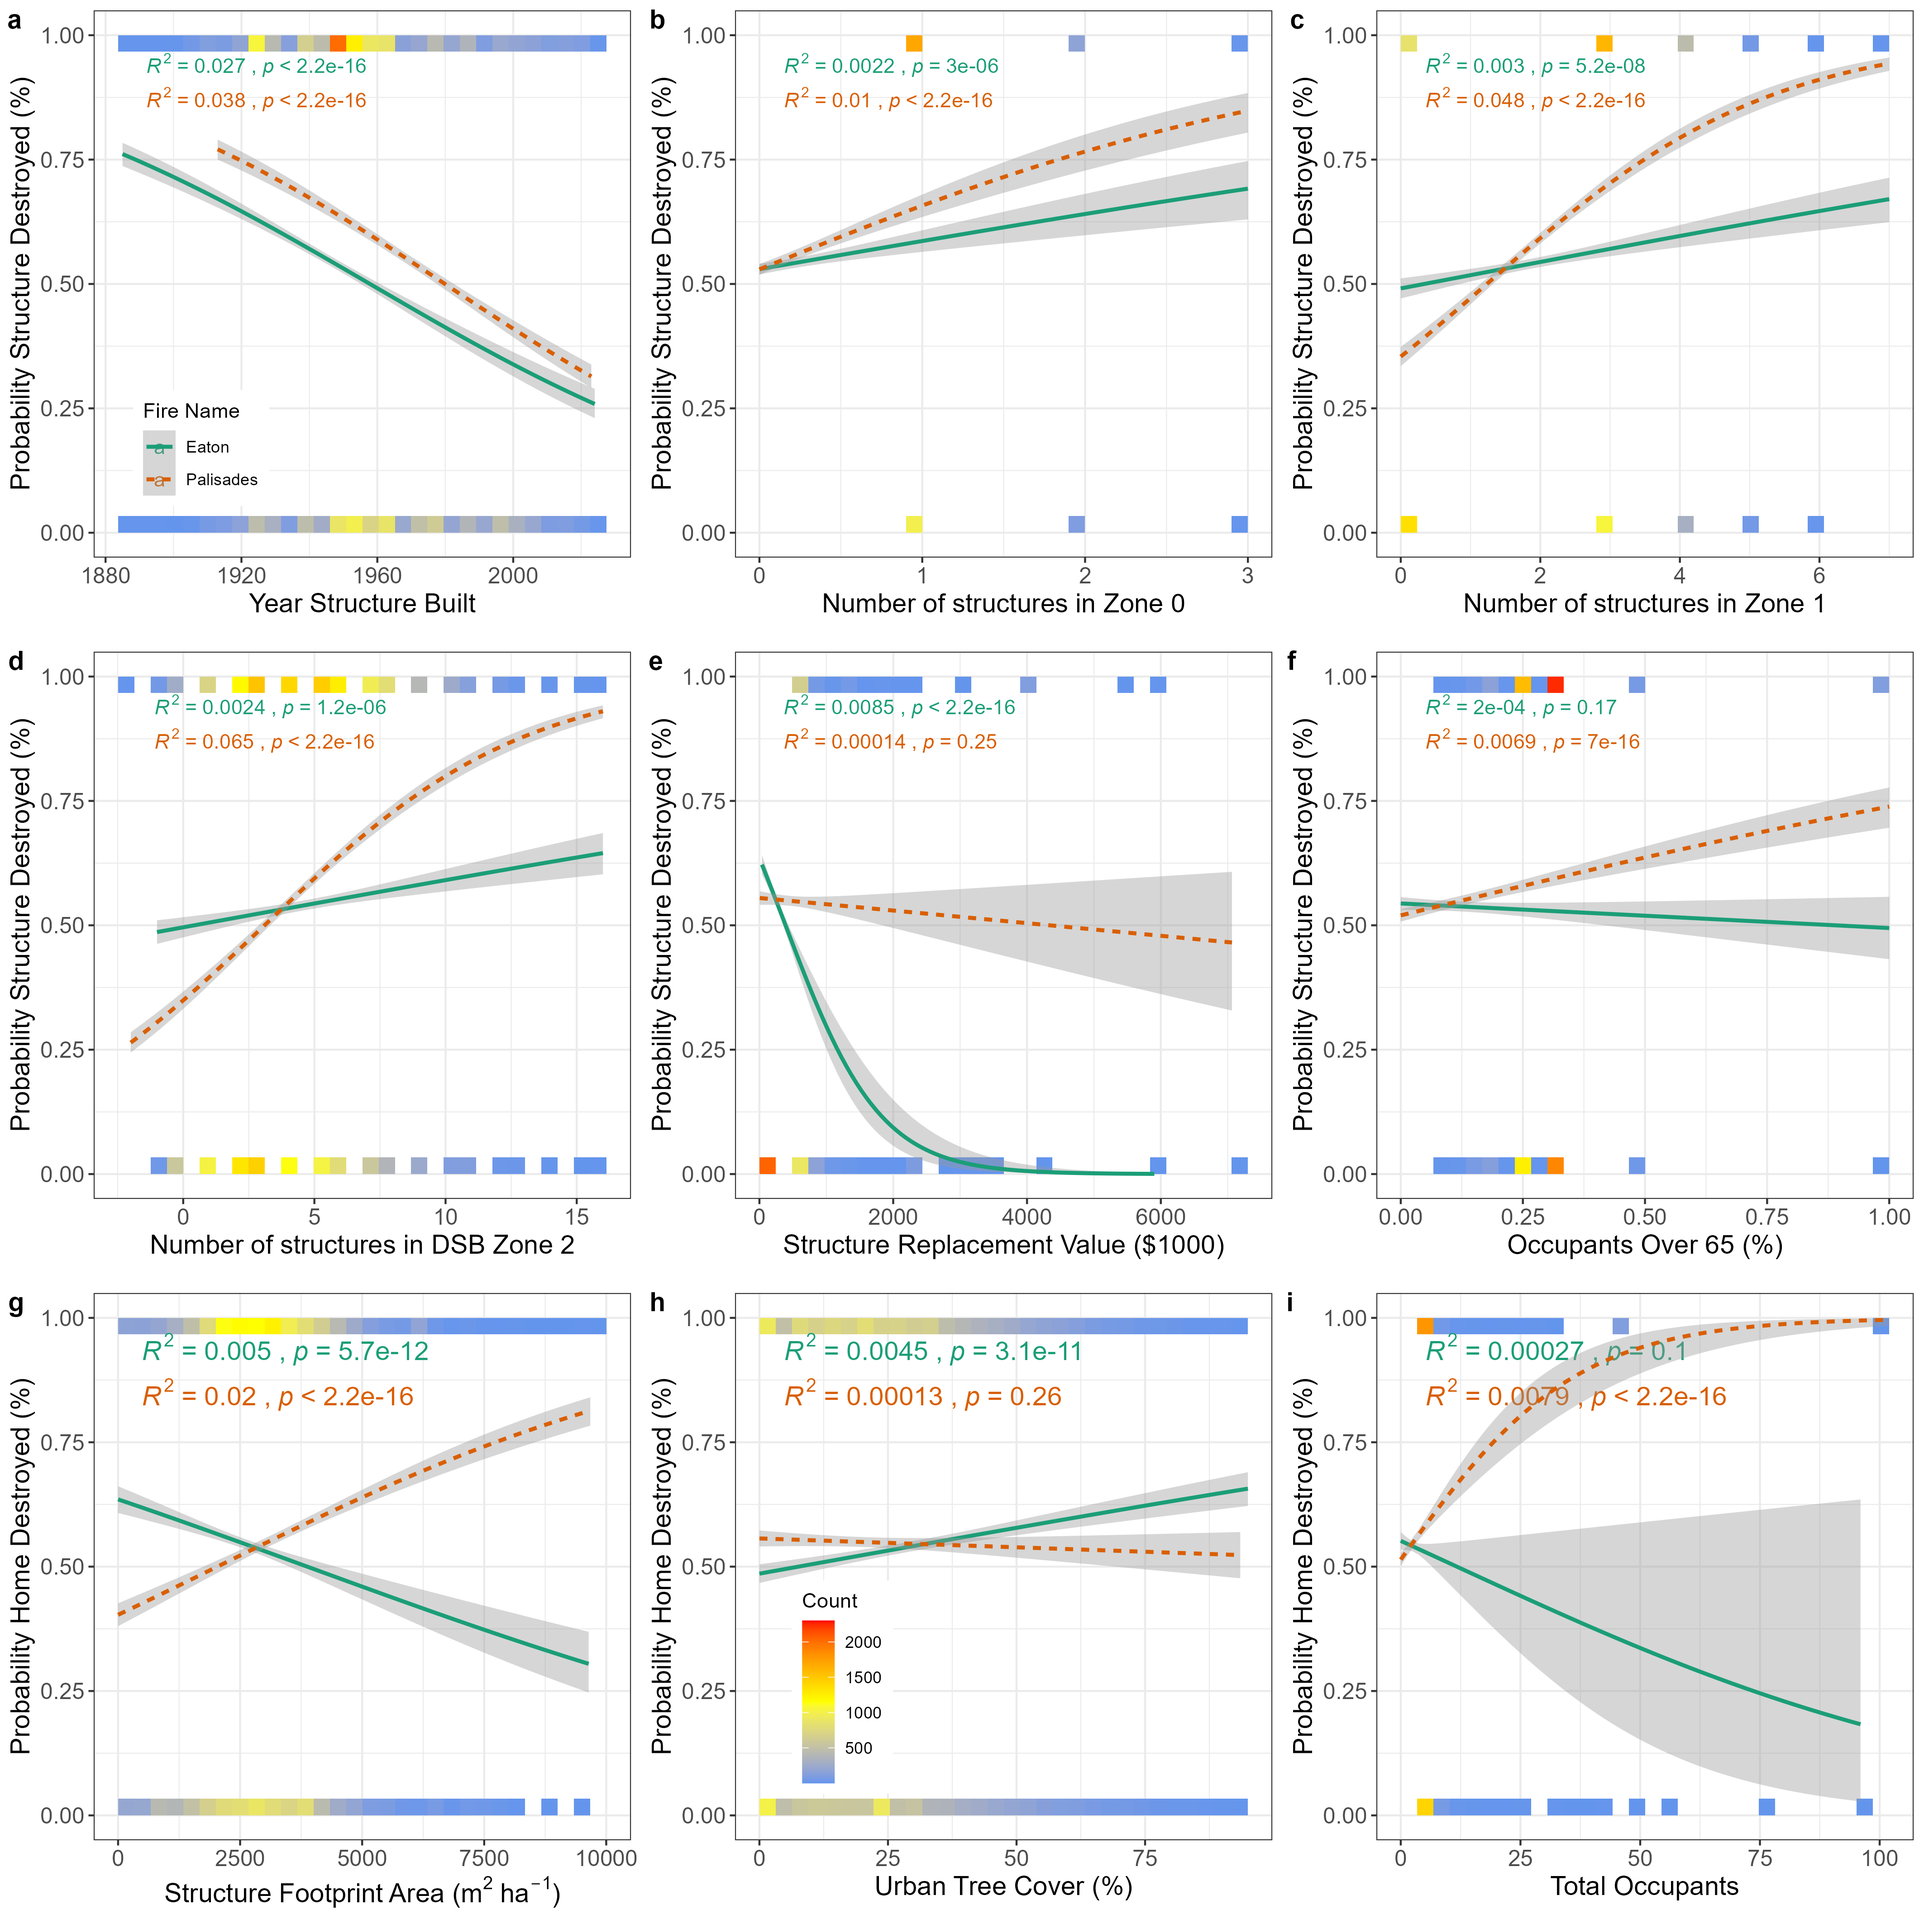
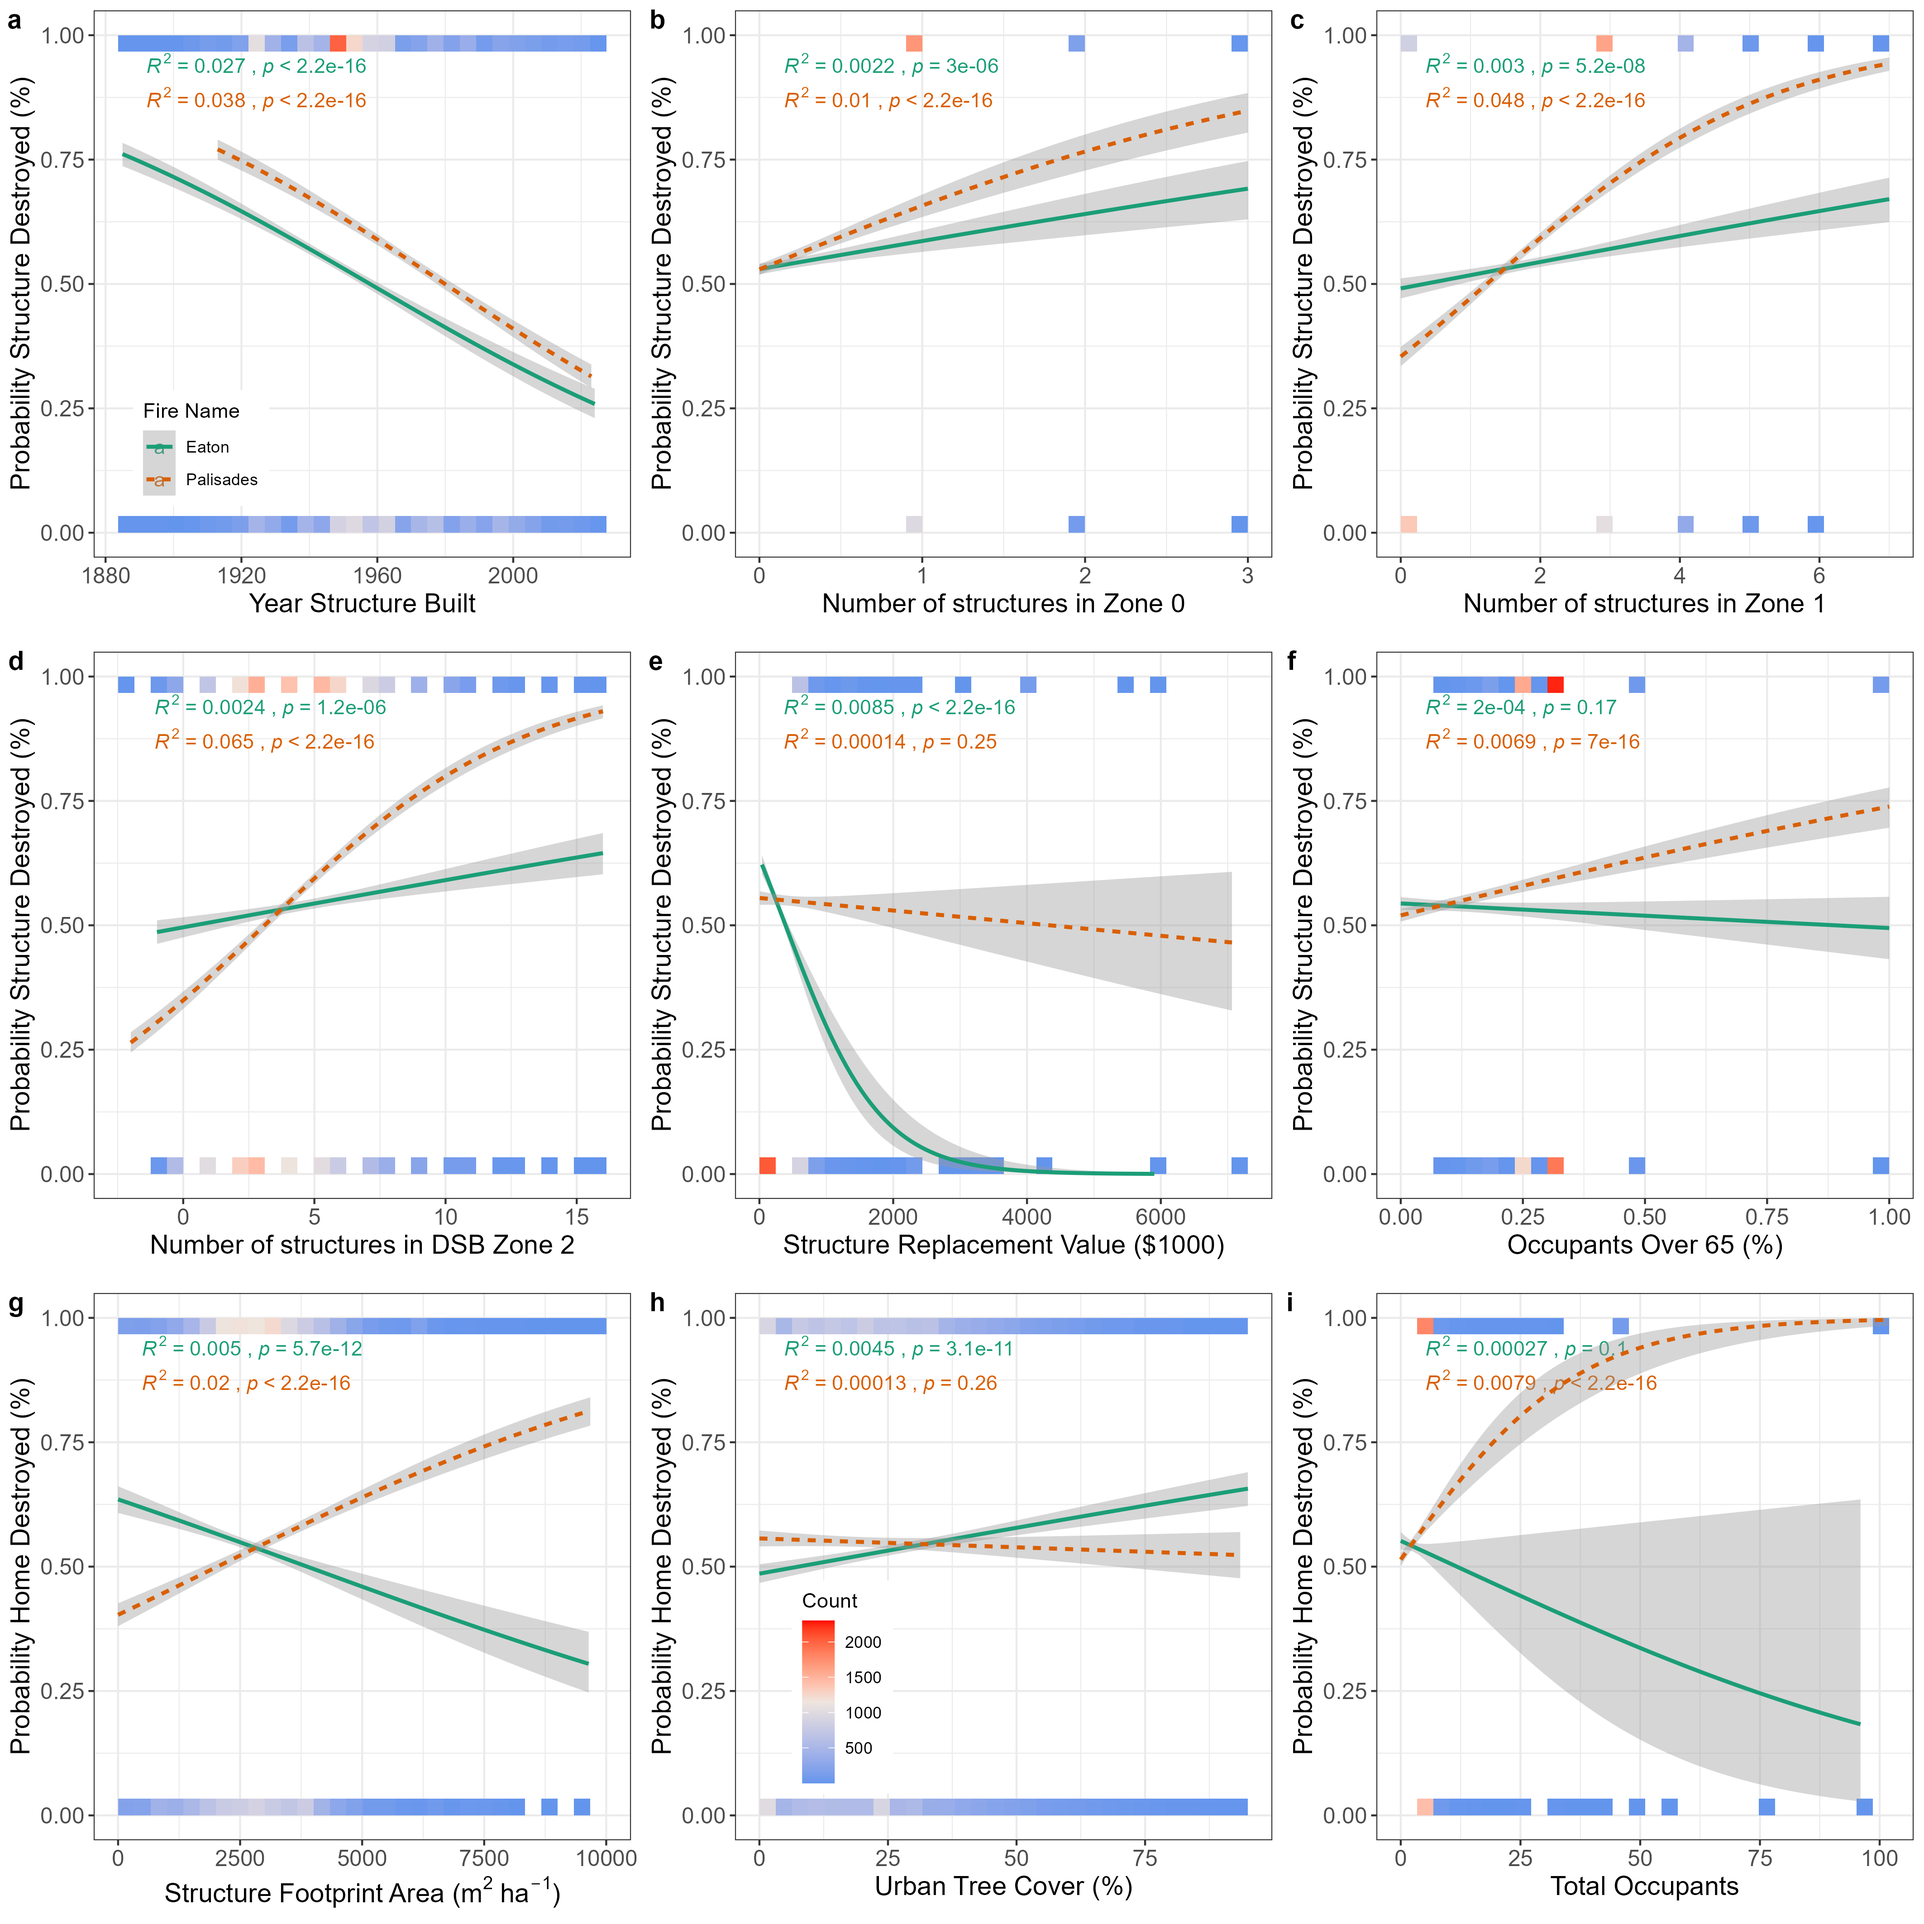
Updated supplementary figure 3 color scheme to be color blind friendly and corrected minor errors in ReadMe file.

diff --git a/README.md b/README.md
@@ -5,8 +5,8 @@ These data sets and scripts allow for the creation of all figures and supplement
 Norlen, C.A.; Sharma, S.; Escobedo, F.J. (2026) "Socio-Ecological Impacts of the 2025 Los Angeles Urban Fires on Communities, Neighborhoods, and Homes" Nature Communications
 
 ## Data Access
-The code and data sets required to create figures, and tables are available as a figshare repository (https://doi.org/10.6084/m9.figshare.29936876). The code is also available in the following GitHub 
-repository (https://github.com/carlnorlen/la-urban-fires). Google Earth Engine code is also available through the Code Editor (https://code.earthengine.google.com/?accept_repo=users/cnorlen-usgs/la-urban-fire). 
+The code and processsed data sets required to create figures, and tables are available as a figshare repository (https://doi.org/10.6084/m9.figshare.29936876). The code is also available in the following GitHub 
+repository (https://github.com/carlnorlen/la-urban-fires).  
 
 ## Description of the data and file structure
 US Census Block scale urban morphology data processed for use in socio-deomgraphic analysis. This file includes the following data fields: census block identifying information such as Block code (BLOCKCE20), 
@@ -77,8 +77,8 @@ Data was derived from these publicly available sources:
   * Landsat 9 surface reflectance for 1/14/2025 retrieved from Google Earth Engine: https://developers.google.com/earth-engine/datasets/catalog/LANDSAT_LC09_C02_T1_L2#bands
 
 ## Code/Software
-The code shared with this submission were written in JavaScript for Google Earth Engine (GEE) and R 4.3.2 run using RStudio.
-The code requires the tidyverse, ggpubr, sf, patchwork, tigris, tidycensus, units, osmdata, rethnicity, and gstat packages. 
+The code shared with this submission were written in JavaScript for Google Earth Engine (GEE), R 4.3.2 run using RStudio, and STATA version 19.
+The R code requires the tidyverse, ggpubr, sf, patchwork, tigris, tidycensus, units, osmdata, rethnicity, and gstat packages. 
 
 ## R Code
 Script for general geospatial data processing.
@@ -93,12 +93,10 @@ Script for merging data sets and exporting processed data for final analysis.
 Script doing final analysis and creating all Main Text and Supplementary Figures.
   * 4-manuscript-analysis.r
 
-##STATA Code
-STATA code for running neighborhood parcel-scale models and producing Tables 1, 2, 3, 4, and Supplementary Tables 1, 2, 3, 4
+## STATA Code
+STATA code for running neighborhood and parcel-scale models and producing Tables 1, 2, 3, 4, and Supplementary Tables 1, 2, 3, 4
   * 1_neighborhood_analysis_stata_code.do
   * 2_parcel_analysis_stata_code.do
-  
-STATAc code for running parcel-scale models and producing Tables 
 
 ## GEE JavaScript Code
 Script for calculating the number of building footprint overlaps in each parcel and census block.
